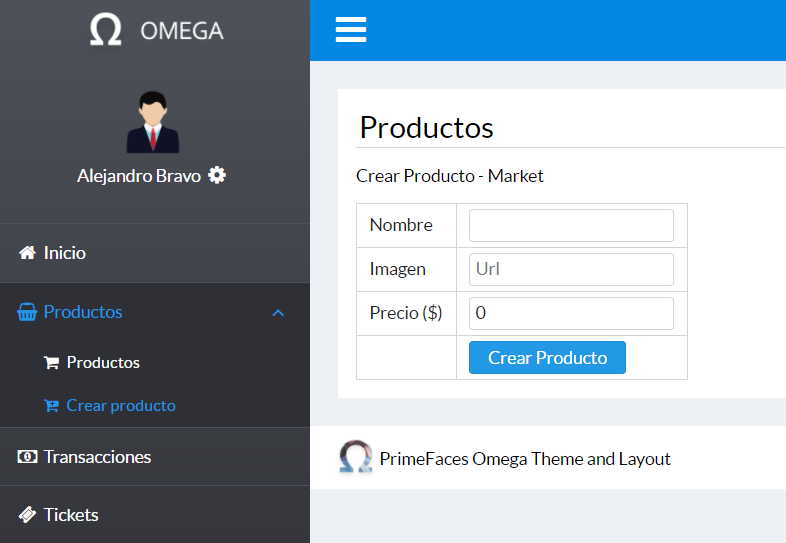
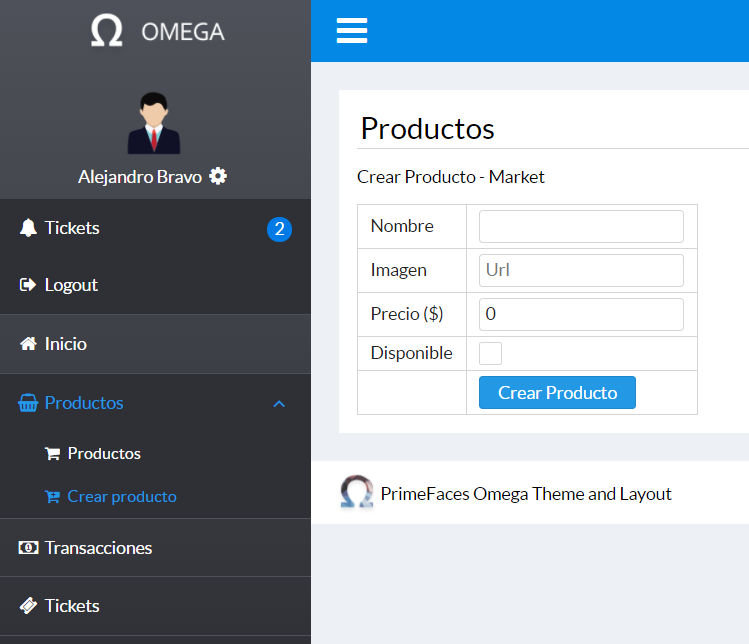
- Add Transaction entities and repositories. - Add Transaction Maintainer. - Add delete product conditions.

diff --git a/app-dashboard/src/main/java/cl/example/dashboard/beans/TransactionsBean.java b/app-dashboard/src/main/java/cl/example/dashboard/beans/TransactionsBean.java
@@ -1,0 +1,58 @@
+package cl.example.dashboard.beans;
+
+import cl.example.dashboard.model.TransactionDataModel;
+import cl.example.dashboard.services.TransactionService;
+import cl.example.entities.domain.entities.ProductEntity;
+import cl.example.entities.domain.entities.TransactionEntity;
+import cl.example.entities.domain.entities.TransactionProductEntity;
+import lombok.Getter;
+import lombok.Setter;
+import org.springframework.beans.factory.annotation.Autowired;
+import org.springframework.context.annotation.Scope;
+import org.springframework.stereotype.Component;
+
+import javax.annotation.PostConstruct;
+import java.util.ArrayList;
+import java.util.HashMap;
+import java.util.List;
+
+@Component
+@Scope("view")
+public class TransactionsBean extends BaseBean {
+
+    @Autowired
+    @Getter
+    private TransactionDataModel transactionDM;
+
+    @Autowired
+    private TransactionService transactionService;
+
+    @Getter
+    @Setter
+    private TransactionEntity selectedTransaction;
+
+    private HashMap<Integer, List<TransactionProductEntity>> productsByTransaction;
+
+    @PostConstruct
+    public void init() {
+        productsByTransaction = new HashMap<>();
+        transactionDM.setClientId(getClientId());
+    }
+
+    public List<TransactionProductEntity> getProducts() {
+        if (selectedTransaction == null) {
+            return new ArrayList<>();
+        }
+
+        int transactionId = selectedTransaction.getId();
+        if (productsByTransaction.containsKey(transactionId)) {
+            return productsByTransaction.get(transactionId);
+        }
+
+        List<TransactionProductEntity> products = transactionService.getTransactionProducts(transactionId);
+        productsByTransaction.put(transactionId, products);
+
+        return products;
+    }
+
+}

diff --git a/lib-entities/src/main/java/cl/example/entities/domain/entities/TransactionEntity.java b/lib-entities/src/main/java/cl/example/entities/domain/entities/TransactionEntity.java
@@ -1,10 +1,8 @@
 package cl.example.entities.domain.entities;
 
-import cl.example.entities.domain.entities.vo.ProductVO;
 import lombok.Getter;
 import lombok.NoArgsConstructor;
 import lombok.Setter;
-import org.springframework.beans.BeanUtils;
 
 import javax.persistence.Basic;
 import javax.persistence.Column;
@@ -15,45 +13,33 @@ import javax.persistence.Id;
 import javax.persistence.JoinColumn;
 import javax.persistence.ManyToOne;
 import javax.persistence.Table;
+import javax.persistence.Temporal;
+import javax.persistence.TemporalType;
+import java.util.Date;
 
 @Entity
-@Table(name = "_product")
+@Table(name = "_transaction")
 @NoArgsConstructor
 @Setter
 @Getter
-public class ProductEntity {
+public class TransactionEntity {
 
     @Id
     @GeneratedValue(strategy = GenerationType.IDENTITY)
     @Column(name = "id")
     private Integer id;
 
+    @Temporal(TemporalType.TIMESTAMP)
+    @Column(name = "creation_datetime")
     @Basic
-    @Column(name = "_name", length = 40, nullable = false)
-    private String name;
+    private Date creationDatetime;
 
     @Basic
-    @Column(name = "picture_url", columnDefinition = "text")
-    private String pictureUrl;
-
-    @Basic
-    @Column(name = "price", length = 11, nullable = false)
-    private Integer price;
-
-    @Basic
-    @Column(name = "enable", nullable = false)
-    private Boolean enable;
+    @Column(name = "resolve", nullable = false)
+    private Boolean resolve;
 
     @ManyToOne
     @JoinColumn(name = "client_id", referencedColumnName = "id", nullable = false)
     private ClientEntity client;
-
-    public ProductVO toVO() {
-        ProductVO vo = new ProductVO();
-        BeanUtils.copyProperties(this, vo);
-        vo.setClientId(client.getId());
-
-        return vo;
-    }
 
 }

diff --git a/app-dashboard/src/main/java/cl/example/dashboard/services/ProductService.java b/app-dashboard/src/main/java/cl/example/dashboard/services/ProductService.java
@@ -2,7 +2,9 @@ package cl.example.dashboard.services;
 
 import cl.example.entities.domain.entities.ClientEntity;
 import cl.example.entities.domain.entities.ProductEntity;
+import cl.example.entities.domain.entities.TransactionProductEntity;
 import cl.example.entities.domain.repositories.ProductRepository;
+import cl.example.entities.domain.repositories.TransactionProductRepository;
 import org.apache.commons.lang3.StringUtils;
 import org.springframework.beans.BeanUtils;
 import org.springframework.beans.factory.annotation.Autowired;
@@ -11,6 +13,7 @@ import cl.example.entities.domain.entities.vo.ProductVO;
 import org.springframework.transaction.annotation.Transactional;
 
 import javax.persistence.EntityManager;
+import java.util.List;
 import java.util.Optional;
 
 @Service
@@ -22,6 +25,9 @@ public class ProductService {
 
     @Autowired
     private EntityManager entityManager;
+
+    @Autowired
+    private TransactionProductRepository transactionProductRepository;
 
     public ProductVO getProductById(int productId, int clientId) {
         ProductEntity entity = productRepository.findByIdAndClient_Id(productId, clientId);
@@ -59,6 +65,11 @@ public class ProductService {
     }
 
     public void deleteProduct(int productId, int clientId) {
+        List<TransactionProductEntity> tps = transactionProductRepository.findById_Product_Id(productId);
+        if (!tps.isEmpty()) {
+            throw new RuntimeException("Unable to delete product if it already has transactions.");
+        }
+
         productRepository.deleteByIdAndClient_Id(productId, clientId);
     }
 

diff --git a/lib-entities/src/main/java/cl/example/entities/domain/entities/TransactionProductEntity.java b/lib-entities/src/main/java/cl/example/entities/domain/entities/TransactionProductEntity.java
@@ -1,0 +1,52 @@
+package cl.example.entities.domain.entities;
+
+import lombok.AllArgsConstructor;
+import lombok.EqualsAndHashCode;
+import lombok.Getter;
+import lombok.NoArgsConstructor;
+import lombok.Setter;
+
+import javax.persistence.Basic;
+import javax.persistence.Column;
+import javax.persistence.Embeddable;
+import javax.persistence.EmbeddedId;
+import javax.persistence.Entity;
+import javax.persistence.JoinColumn;
+import javax.persistence.ManyToOne;
+import javax.persistence.Table;
+import java.io.Serializable;
+
+@Entity
+@Table(name = "_transaction_product")
+@Getter
+@Setter
+public class TransactionProductEntity {
+
+    @EmbeddedId
+    private TransactionProductPK id;
+
+    @EqualsAndHashCode
+    @Embeddable
+    @AllArgsConstructor
+    @NoArgsConstructor
+    @Getter
+    @Setter
+    public static class TransactionProductPK implements Serializable {
+
+        public static final long serialVersionUID = 1;
+
+        @ManyToOne
+        @JoinColumn(name = "transaction_id", referencedColumnName = "id", nullable = false)
+        private TransactionEntity transaction;
+
+        @ManyToOne
+        @JoinColumn(name = "product_id", referencedColumnName = "id", nullable = false)
+        private ProductEntity product;
+
+    }
+
+    @Basic
+    @Column(name = "amount", nullable = false)
+    private Integer amount;
+
+}

diff --git a/app-dashboard/src/main/java/cl/example/dashboard/model/TransactionDataModel.java b/app-dashboard/src/main/java/cl/example/dashboard/model/TransactionDataModel.java
@@ -1,6 +1,7 @@
 package cl.example.dashboard.model;
 
 import cl.example.entities.domain.entities.ProductEntity;
+import cl.example.entities.domain.entities.TransactionEntity;
 import lombok.Setter;
 import org.springframework.beans.factory.annotation.Autowired;
 import org.springframework.stereotype.Component;
@@ -15,13 +16,13 @@ import java.util.Collections;
 import java.util.List;
 
 @Component
-public class ProductDataModel extends EntityLazyDataModel<ProductEntity> {
+public class TransactionDataModel extends EntityLazyDataModel<TransactionEntity> {
 
     @Autowired
     private EntityManager em;
 
-    public ProductDataModel() {
-        super(ProductEntity.class);
+    public TransactionDataModel() {
+        super(TransactionEntity.class);
     }
 
     @Override
@@ -33,7 +34,7 @@ public class ProductDataModel extends EntityLazyDataModel<ProductEntity> {
     private Integer clientId;
 
     @Override
-    protected List<Predicate> applyCustomQuery(CriteriaBuilder cb, CriteriaQuery<?> query, Root<ProductEntity> root) {
+    protected List<Predicate> applyCustomQuery(CriteriaBuilder cb, CriteriaQuery<?> query, Root<TransactionEntity> root) {
         List<Predicate> predicates = new ArrayList<>();
 
         if (clientId != null) {

diff --git a/app-dashboard/src/main/java/cl/example/dashboard/services/TransactionService.java b/app-dashboard/src/main/java/cl/example/dashboard/services/TransactionService.java
@@ -1,0 +1,22 @@
+package cl.example.dashboard.services;
+
+import cl.example.entities.domain.entities.TransactionProductEntity;
+import cl.example.entities.domain.repositories.TransactionProductRepository;
+import org.springframework.beans.factory.annotation.Autowired;
+import org.springframework.stereotype.Service;
+import org.springframework.transaction.annotation.Transactional;
+
+import java.util.List;
+
+@Service
+@Transactional
+public class TransactionService {
+
+    @Autowired
+    private TransactionProductRepository transactionProductRepository;
+
+    public List<TransactionProductEntity> getTransactionProducts(int transactionId) {
+        return transactionProductRepository.findById_Transaction_Id(transactionId);
+    }
+
+}

diff --git a/lib-entities/src/main/java/cl/example/entities/domain/repositories/TransactionProductRepository.java b/lib-entities/src/main/java/cl/example/entities/domain/repositories/TransactionProductRepository.java
@@ -1,0 +1,16 @@
+package cl.example.entities.domain.repositories;
+
+import cl.example.entities.domain.entities.TransactionProductEntity;
+import org.springframework.data.jpa.repository.JpaRepository;
+import org.springframework.stereotype.Repository;
+
+import java.util.List;
+
+@Repository
+public interface TransactionProductRepository  extends JpaRepository<TransactionProductEntity, Integer> {
+
+    List<TransactionProductEntity> findById_Transaction_Id(int transactionId);
+
+    List<TransactionProductEntity> findById_Product_Id(int productId);
+
+}

diff --git a/app-dashboard/src/main/java/cl/example/dashboard/beans/ProductsBean.java b/app-dashboard/src/main/java/cl/example/dashboard/beans/ProductsBean.java
@@ -26,8 +26,12 @@ public class ProductsBean extends BaseBean {
     }
 
     public void deleteProduct(int productId) {
-        productService.deleteProduct(productId, getClientId());
-        showInfo("Producto borrado exitosamente!");
+        try {
+            productService.deleteProduct(productId, getClientId());
+            showInfo("Producto borrado exitosamente!");
+        } catch (Exception e) {
+            showError("Imposible borrar producto si ya posee transacciones.");
+        }
     }
 
 }

diff --git a/lib-entities/src/main/java/cl/example/entities/domain/repositories/TransactionRepository.java b/lib-entities/src/main/java/cl/example/entities/domain/repositories/TransactionRepository.java
@@ -1,0 +1,9 @@
+package cl.example.entities.domain.repositories;
+
+import cl.example.entities.domain.entities.TransactionEntity;
+import org.springframework.data.jpa.repository.JpaRepository;
+import org.springframework.stereotype.Repository;
+
+@Repository
+public interface TransactionRepository extends JpaRepository<TransactionEntity, Integer> {
+}

diff --git a/app-dashboard/src/main/java/cl/example/dashboard/converters/ClpConverter.java b/app-dashboard/src/main/java/cl/example/dashboard/converters/ClpConverter.java
@@ -10,6 +10,7 @@ import java.text.DecimalFormat;
 import java.text.NumberFormat;
 import java.util.Locale;
 
+@FacesConverter("cl.example.dashboard.converters.ClpConverter")
 public class ClpConverter implements Converter {
 
     @Override

diff --git a/lib-entities/src/main/java/cl/example/entities/domain/entities/vo/ProductVO.java b/lib-entities/src/main/java/cl/example/entities/domain/entities/vo/ProductVO.java
@@ -17,6 +17,7 @@ public class ProductVO implements Serializable {
     private String name;
     private String pictureUrl;
     private int price;
+    private boolean enable;
     private int clientId;
 
 }
